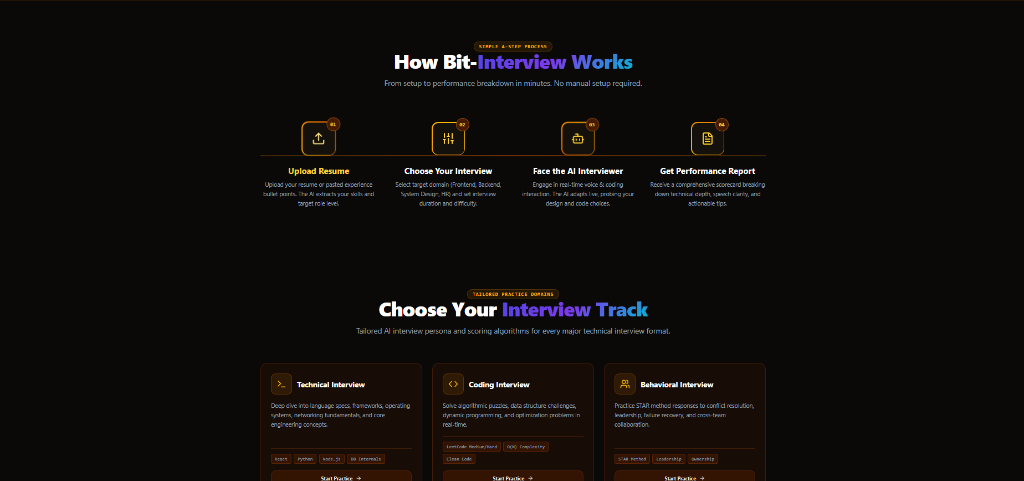
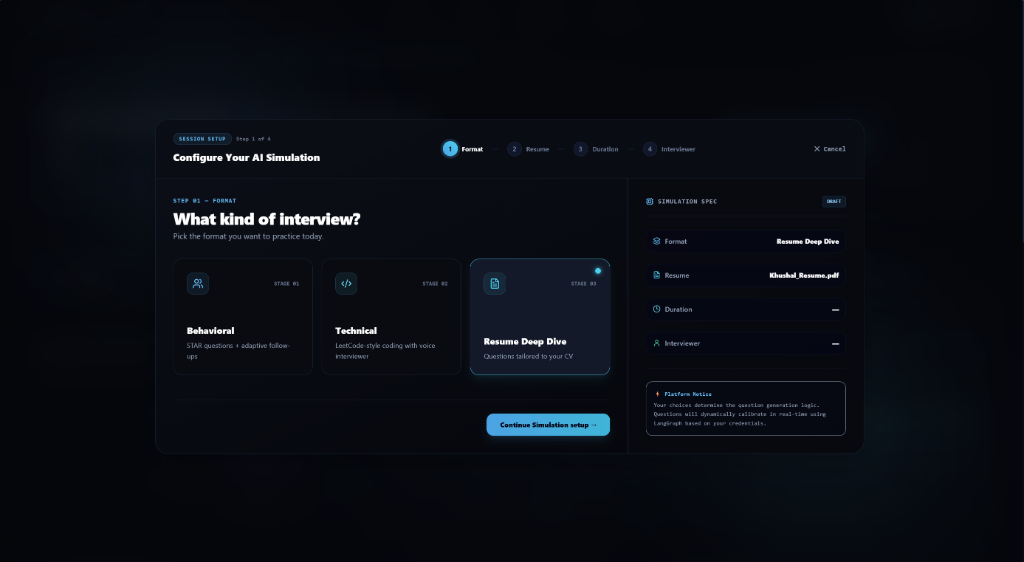
docs: update README interface showcase with brand new sky-blue screenshots

diff --git a/README.md b/README.md
@@ -23,16 +23,20 @@
 
 <div align="center">
 
-### 1⃣ Next-Gen AI Landing & Product Showcase
+### 1⃣ Dynamic 3D Adaptive AI Landing Portal
+*Featuring active 3D perspective synapses background and cartoon 3D illustration hero mockup.*
 ![Bit-Interview Landing Page](intervue-ai/docs/images/landing_hero.png)
 
-### 2⃣ Tailored Practice Tracks & 4-Step Process
-![How Bit-Interview Works & Practice Tracks](intervue-ai/docs/images/how_it_works_tracks.png)
+### 2⃣ Secure Candidate & Recruiter Access Portal
+*Clean multi-role authentication interface with social identity providers.*
+![Authentication Welcome Back](intervue-ai/docs/images/login_welcome.png)
 
-### 3⃣ Adaptive AI Room — Voice Narration, Monaco Code Editor & Anti-Cheat Monitor
-![Adaptive AI Interview Room](intervue-ai/docs/images/adaptive_ai_room.png)
+### 3⃣ Interactive Session Configuration Wizard
+*Seamless step-by-step interview track and parameter setup.*
+![Configure Your AI Simulation](intervue-ai/docs/images/how_it_works_tracks.png)
 
-### 4⃣ Candidate Analytics & Readiness Trajectory Dashboard
+### 4⃣ Live Candidate Control Center & Performance Dashboard
+*Dynamic readiness trajectories, skill breakdown radars, and session logs.*
 ![Candidate Dashboard & Skill Radar](intervue-ai/docs/images/dashboard_analytics.png)
 
 </div>

diff --git a/intervue-ai/README.md b/intervue-ai/README.md
@@ -23,16 +23,20 @@
 
 <div align="center">
 
-### 1⃣ Next-Gen AI Landing & Product Showcase
+### 1⃣ Dynamic 3D Adaptive AI Landing Portal
+*Featuring active 3D perspective synapses background and cartoon 3D illustration hero mockup.*
 ![Bit-Interview Landing Page](docs/images/landing_hero.png)
 
-### 2⃣ Tailored Practice Tracks & 4-Step Process
-![How Bit-Interview Works & Practice Tracks](docs/images/how_it_works_tracks.png)
+### 2⃣ Secure Candidate & Recruiter Access Portal
+*Clean multi-role authentication interface with social identity providers.*
+![Authentication Welcome Back](docs/images/login_welcome.png)
 
-### 3⃣ Adaptive AI Room — Voice Narration, Monaco Code Editor & Anti-Cheat Monitor
-![Adaptive AI Interview Room](docs/images/adaptive_ai_room.png)
+### 3⃣ Interactive Session Configuration Wizard
+*Seamless step-by-step interview track and parameter setup.*
+![Configure Your AI Simulation](docs/images/how_it_works_tracks.png)
 
-### 4⃣ Candidate Analytics & Readiness Trajectory Dashboard
+### 4⃣ Live Candidate Control Center & Performance Dashboard
+*Dynamic readiness trajectories, skill breakdown radars, and session logs.*
 ![Candidate Dashboard & Skill Radar](docs/images/dashboard_analytics.png)
 
 </div>
